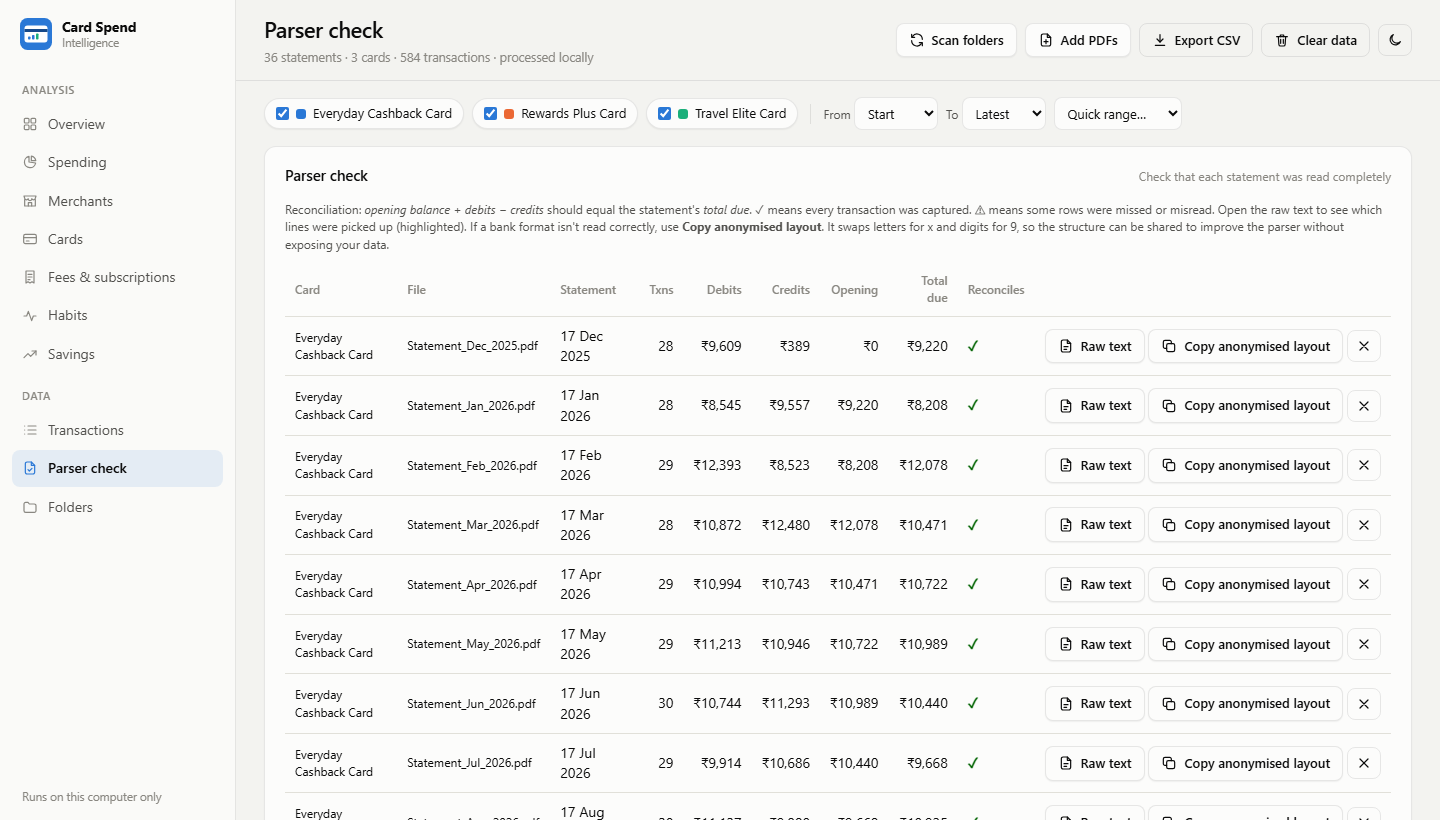
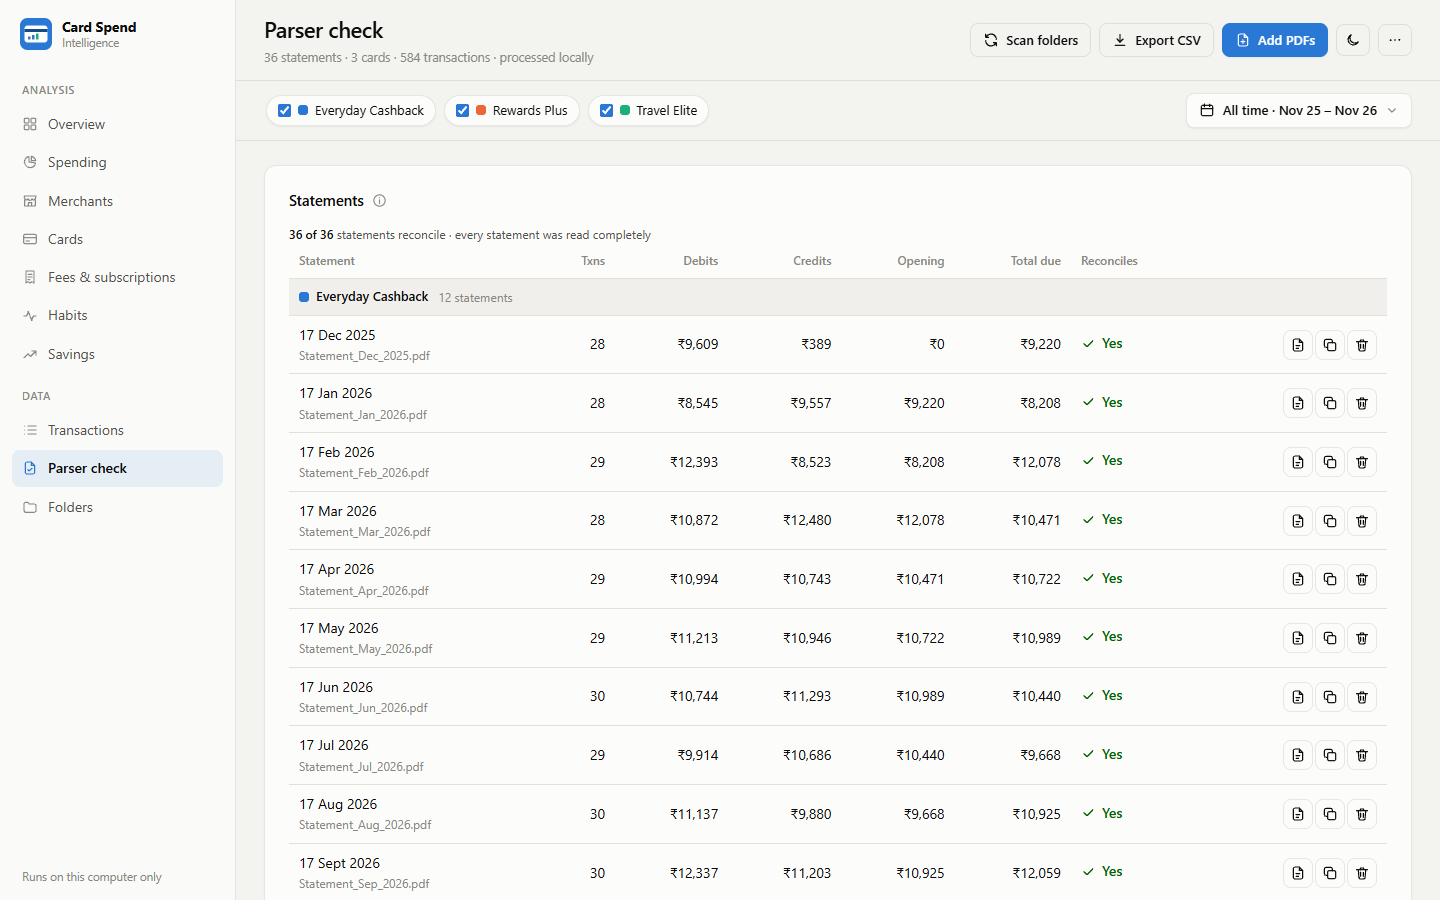
Refresh the screenshots and describe the new layout

diff --git a/README.md b/README.md
@@ -12,15 +12,17 @@ All screenshots use made up demo data.
 
 ## What it shows
 
-**Overview.** Total and monthly spend split by card, the categories that eat most of your money, and a short list of findings like late fees, interest, duplicate charges or spending that keeps creeping up.
+**Overview.** Total and monthly spend split by card, the categories that eat most of your money, and a short list of findings like late fees, interest, duplicate charges or spending that keeps creeping up. Each finding links to the tab with the details.
 
 **Spending.** A calendar of daily spending for the last year, then every category with its share, average ticket size and how it changed over the period. You can mark any category as essential or discretionary and the rest of the dashboard follows. Also spend by weekday, by day of the month (useful for spotting the post-salary splurge) and by hour, if your bank prints transaction times.
 
 ![Spending](docs/screenshots/spending.png)
 
-**Merchants.** Merchant names get cleaned up, so `SWIGGY BANGALORE`, `SWIGGY LIMITED` and friends all count as Swiggy. The list is ranked with ABC classes, so you can see the handful of places that take 80% of your money. If a merchant lands in the wrong category, click the category and pick another. Every transaction from that merchant follows, including future statements.
+**Merchants.** Merchant names get cleaned up, so `SWIGGY BANGALORE`, `SWIGGY LIMITED` and friends all count as Swiggy. The list is ranked with ABC classes, so you can see the handful of places that take 80% of your money. Click a merchant to see its transactions. If a merchant lands in the wrong category, click the category and pick another. Every transaction from that merchant follows, including future statements.
 
-**Cards.** A side by side comparison of your cards: spend, cashback, reward points, fees, interest and the net benefit of each card. It also tracks credit utilization per statement and checks whether every bill was paid in full.
+![Merchants](docs/screenshots/merchants.png)
+
+**Cards.** Each card's latest bill, due date, credit limit and whether bills were paid in full, then a side by side comparison: spend, rewards, fees and interest, and the net benefit of each card. It also tracks credit utilization per statement.
 
 ![Cards](docs/screenshots/cards.png)
 
@@ -80,7 +82,7 @@ Next month, save the new PDF into the same folder and click **Scan folders**. On
 
 Every bank lays out its statements a little differently, so the **Parser check** tab exists to keep things honest. For each statement it takes the opening balance, adds the debits it found, subtracts the credits and compares the result with the total due printed on the statement. A tick means every transaction was picked up.
 
-If you see a warning, click **Raw text** to see exactly which lines were read as transactions. **Copy anonymised layout** copies the statement's structure with every letter replaced by `x` and every digit by `9`. That's enough to fix the parser for a new bank layout without sharing any real data, so feel free to attach it to an issue.
+If a statement is off, **Needs a look** lists just those. The page icon on a row shows the raw text, with the lines read as transactions highlighted. The copy icon copies the statement's structure with every letter replaced by `x` and every digit by `9`. That's enough to fix the parser for a new bank layout without sharing any real data, so feel free to attach it to an issue.
 
 ![Parser check](docs/screenshots/parser.png)
 
@@ -93,7 +95,7 @@ This was the main reason to build it instead of uploading statements to some web
 * PDFs are decrypted with pdf.js inside your browser tab. The password goes from the dialog straight to pdf.js and is dropped once the file is read.
 * The local server only listens on `127.0.0.1`, so other devices on your network can't reach it. It rejects requests coming from other websites and will only read PDFs inside folders you added.
 * The page has a Content Security Policy that blocks it from talking to anything except the local server. pdf.js and Chart.js are bundled in `app/vendor`, so no CDN is involved either.
-* Transactions are stored in `data/cards.db`. That file is not encrypted, so it's as safe as your user account and disk. **Clear data** then **Delete everything** wipes it in one go, including the list of folders, and rewrites the file so the deleted data can't be read back from it.
+* Transactions are stored in `data/cards.db`. That file is not encrypted, so it's as safe as your user account and disk. **Clear data** in the ⋯ menu, then **Delete everything**, wipes it in one go, including the list of folders, and rewrites the file so the deleted data can't be read back from it.
 * `.gitignore` keeps PDFs, CSV exports, the database and your statement folders out of git, in case you fork this and keep your statements next to it.
 
 ## Options
